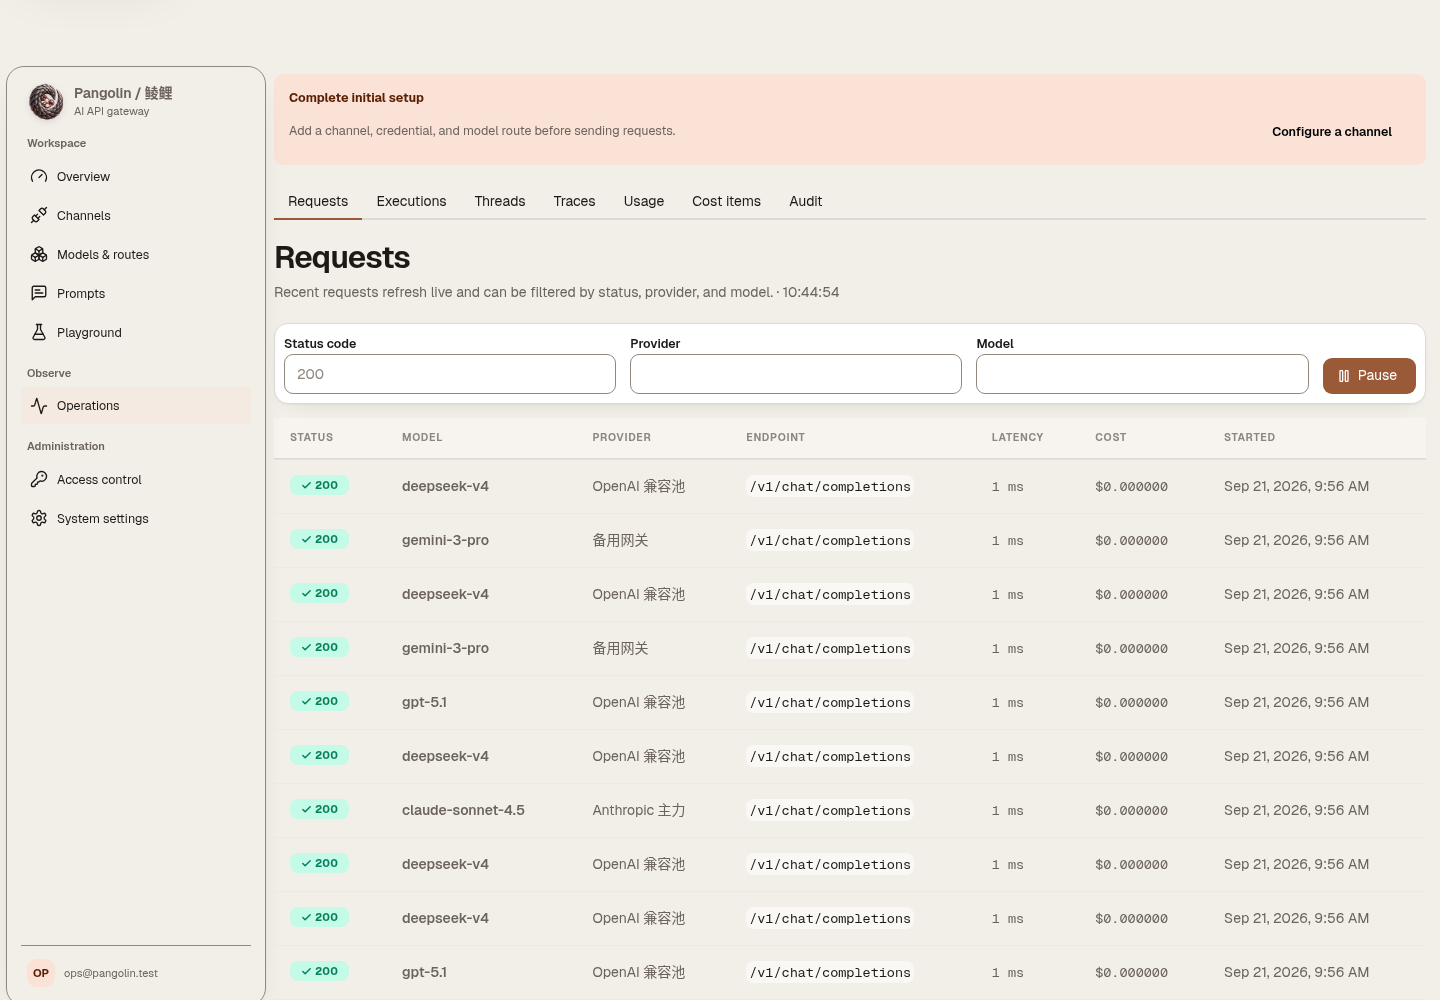
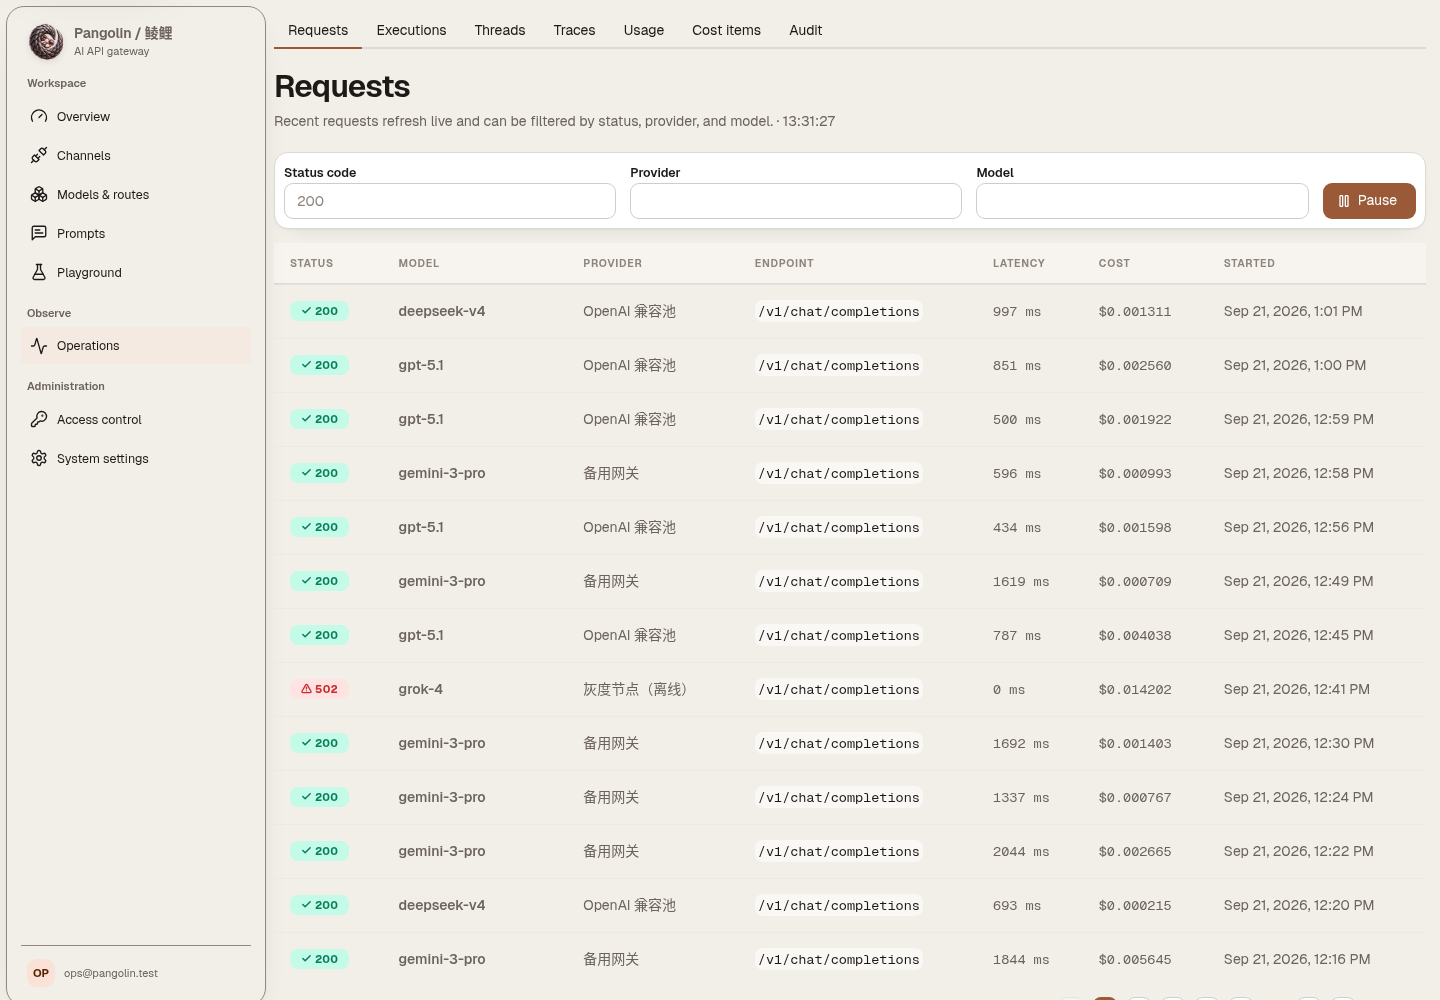
docs: refresh the README panels for the shipped console
The committed set predated the console audit round, so it showed the old filled
button label, the old mobile drawer, 9px capability pills and the raw JSON
editor. Two panels were also simply wrong: the trace panel was a byte-identical
duplicate of the request detail (its "Trace" click silently no-opped) and the
mobile credentials panel was the channels page.

Re-captured from the release binary against a seeded instance with a realistic
24h spread (latency measured against a mock upstream, cost from the real pricing
path): 210 requests, 9.0% error rate, p95 1604ms, $0.8047. The trend chart is a
diurnal curve rather than the single spike the old seed produced. Adds the About
panel, which reports both builds, to both READMEs.

Every reference in both READMEs resolves and every file was rewritten.

diff --git a/README.md b/README.md
@@ -39,9 +39,9 @@ Pangolin (Chinese name 鲮鲤) is a single-binary AI API aggregation gateway. It
 | --- | --- | --- |
 | ![Pangolin model routing](docs/screenshots/routing-desktop-dark-zh.png) | ![Pangolin request list](docs/screenshots/requests-desktop-light-en.png) | ![Pangolin request detail](docs/screenshots/request-detail-desktop-light-en.png) |
 
-| Trace detail | Access control | System settings |
-| --- | --- | --- |
-| ![Pangolin trace detail](docs/screenshots/trace-desktop-dark-en.png) | ![Pangolin access control](docs/screenshots/access-desktop-light-zh.png) | ![Pangolin system settings](docs/screenshots/system-desktop-dark-zh.png) |
+| Trace detail | Access control | System settings | About |
+| --- | --- | --- | --- |
+| ![Pangolin trace detail](docs/screenshots/trace-desktop-dark-en.png) | ![Pangolin access control](docs/screenshots/access-desktop-light-zh.png) | ![Pangolin system settings](docs/screenshots/system-desktop-dark-zh.png) | ![Pangolin build identity](docs/screenshots/about-desktop-dark-zh.png) |
 
 ### Themes
 
